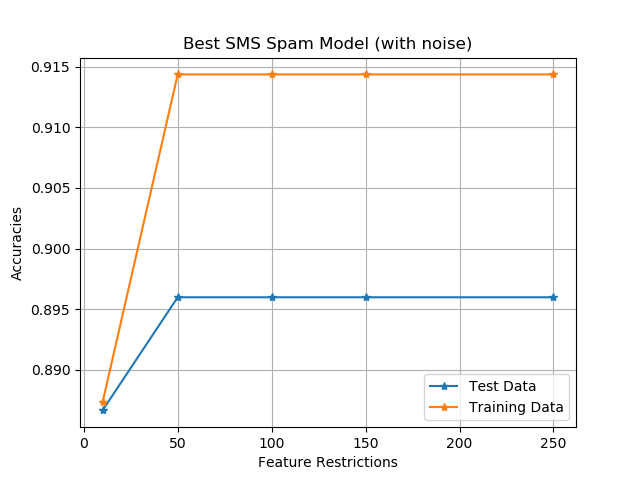
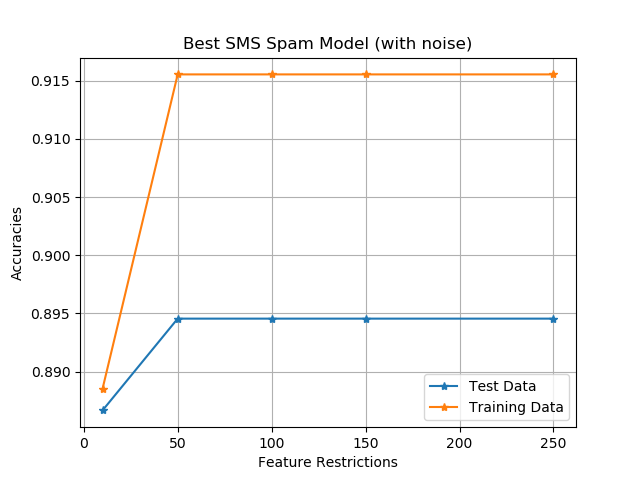
UPDATED: outputs for random forest and best model part1.

diff --git a/Assignment4/Code/model/GeoffDecisionTreeModel.py b/Assignment4/Code/model/GeoffDecisionTreeModel.py
@@ -1,0 +1,148 @@
+import collections
+import math
+
+
+def Entropy(y):
+    if (len(y) == 0):
+        return 0.0
+    distribution = collections.Counter()
+    for yValue in y:
+        distribution[yValue] += 1
+    numSamples = sum(distribution.values())
+    entropy = 0.0
+    for value in distribution:
+        p = distribution[value] / numSamples
+        entropy += -p * math.log2(p)
+    return entropy
+
+
+def SplitOnFeature(x, y, featureIndex):
+    # find the split point to use
+    min = None
+    max = None
+    for i in range(len(x)):
+        thisValue = x[i][featureIndex]
+        if min == None:
+            min = thisValue
+            max = thisValue
+        if thisValue < min:
+            min = thisValue
+        if thisValue > max:
+            max = thisValue
+    threshold = (min + max) / 2.0
+    # format is [<below thresh>, <equal or above thresh>]
+    # and each of those is [x, y] for the samples that meet the criteria
+    sampleSubsets = [[[], []], [[], []]]
+    for i in range(len(x)):
+        thisValue = x[i][featureIndex]
+        if thisValue < threshold:
+            subset = sampleSubsets[0]
+        else:
+            subset = sampleSubsets[1]
+
+        subset[0].append(x[i])
+        subset[1].append(y[i])
+    return (threshold, sampleSubsets)
+
+
+def FindBestSplit(x, y, featureSet=None):
+    if featureSet == None:  # no restriction on features
+        featureSet = set()
+        for i in range(len(x[0])):
+            featureSet.add(i)
+    totalEntropy = Entropy(y)
+    samples = len(y)
+    bestIndex = 0
+    bestGain = 0
+    bestSubsets = {}
+    bestThreshold = None
+    for i in range(len(x[0])):
+        if i in featureSet:  # if we can consider this feature, then do.
+            (threshold, subsets) = SplitOnFeature(x, y, i)
+            entropyAfterSplit = 0
+            for subset in subsets:
+                xVal = subset[0]
+                yVal = subset[1]
+                entropyAfterSplit += (len(xVal) / samples) * Entropy(yVal)
+            gain = totalEntropy - entropyAfterSplit
+            if gain > bestGain:
+                bestIndex = i
+                bestGain = gain
+                bestSubsets = subsets
+                bestThreshold = threshold
+    if bestGain == 0:
+        return None
+    return (bestIndex, bestThreshold, bestSubsets)
+
+
+class TreeNode(object):
+    def __init__(self):
+        self.labelDistribution = collections.Counter()
+        self.splitIndex = None
+        self.threshold = None
+        self.children = []
+        self.x = []
+        self.y = []
+
+    def AddData(self, x, y):
+        self.x += x
+        self.y += y
+        for newY in y:
+            self.labelDistribution[newY] += 1
+
+    def GrowTree(self, minToSplit, featureSet=None):
+        if len(self.x) < minToSplit:
+            return
+        splitAnswer = FindBestSplit(self.x, self.y, featureSet)
+        if splitAnswer == None:
+            return
+        (self.splitIndex, self.threshold, splitSubsets) = splitAnswer
+        for subset in splitSubsets:
+            childNode = TreeNode()
+            childNode.AddData(subset[0], subset[1])
+            self.children.append(childNode)
+            childNode.GrowTree(minToSplit, featureSet)
+
+    def predict(self, x):
+        if self.splitIndex != None:
+            if x[self.splitIndex] < self.threshold:
+                return self.children[0].predict(x)
+            else:
+                return self.children[1].predict(x)
+        return self.labelDistribution.most_common(1)[0][0]
+
+    def visualize(self, depth=1):
+        if self.splitIndex == None:
+            print(self.labelDistribution)
+        else:
+            print("Split on: %d" % (self.splitIndex))
+            # less than
+            for i in range(depth):
+                print(' ', end='', flush=True)
+            print("< %f -- " % self.threshold, end='', flush=True)
+            self.children[0].visualize(depth + 1)
+            # greater than or equal
+            for i in range(depth):
+                print(' ', end='', flush=True)
+            print(">= %f -- " % self.threshold, end='', flush=True)
+            self.children[1].visualize(depth + 1)
+
+
+class DecisionTreeModel(object):
+    """A learns simple decision trees."""
+
+    def __init__(self):
+        self.treeNode = TreeNode()
+
+    def fit(self, x, y, featureSet=None, minToSplit=100, logProgress=False):
+        self.treeNode.AddData(x, y)
+        self.treeNode.GrowTree(minToSplit, featureSet)
+
+    def predict(self, x):
+        y = []
+        for example in x:
+            y.append(self.treeNode.predict(example))
+        return y
+
+    def visualize(self):
+        self.treeNode.visualize()

diff --git a/Assignment4/Code/model/RandomForestsModel.py b/Assignment4/Code/model/RandomForestsModel.py
@@ -1,11 +1,11 @@
 from collections import Counter
 from joblib import Parallel, delayed
 import math
-import random
 import numpy as np
+from model.GeoffDecisionTreeModel import DecisionTreeModel
 
-from utils.bootstrap_sampling import get_bagged_samples, bootstraping_training_data
-from utils.feature_restriction import select_random_indices, restrict_features
+from utils.bootstrap_sampling import bootstraping_training_data
+from utils.feature_restriction import select_random_indices
 
 
 class RandomForestModel(object):
@@ -51,11 +51,31 @@ class RandomForestModel(object):
                 ys.append(list(y))
             self.selected_indices.append(selected_indices)
 
-        #self.trees = [build_tree(x, y, min_to_split) for x in xs]
         self.trees = Parallel(n_jobs=6)(delayed(build_tree)(x, y, min_to_split, si)
                                         for si, x, y in zip(self.selected_indices, xs, ys))
 
     def predict(self, xTest, threshold=None):
+
+        self.predictions = []
+        print("Predicting results with {} tree(s).".format(len(self.trees)))
+        # for selected_indices, tree in zip(self.selected_indices, self.trees):
+        for tree in self.trees:
+            self.predictions.append(tree.predict(xTest))
+
+        prediction_votes = []
+        for combines in zip(*self.predictions):
+            count_1s = combines.count(1)
+            #if (count_1s / len(combines)) >= 0.5:
+            #    prediction_votes.append(1)
+            #else:
+            #    prediction_votes.append(0)
+            voted = Counter(combines).most_common(1)[0][0]
+            # print("0s {} vs 1s {}".format(combines.count(0), combines.count(1)))
+            prediction_votes.append(voted)
+
+        return prediction_votes
+
+    def predict_jae(self, xTest, threshold=None):
 
         self.predictions = []
         print("Predicting results with {} tree(s).".format(len(self.trees)))
@@ -361,7 +381,14 @@ def split(node, min_to_stop=100, selected_indices=[]):
         return
 
 
-def build_tree(xTrains, yTrains, min_to_stop=100, selected_indices=[]):
+def build_tree(xTrains, yTrains, minToSplit, selected_indices):
+
+    dt = DecisionTreeModel()
+    dt.fit(xTrains, yTrains, selected_indices, minToSplit)
+    return dt
+
+
+def build_tree_jae(xTrains, yTrains, min_to_stop=100, selected_indices=[]):
 
     root = get_split(xTrains, yTrains, selected_indices)
     split(root, min_to_stop, selected_indices)

diff --git a/Assignment4/Code/model/BestSpamModel.py b/Assignment4/Code/model/BestSpamModel.py
@@ -41,11 +41,11 @@ class BestSpamModel(object):
         self.rf.fit(xTrains, yTrains, min_to_stop)
 
     def predict(self, xTests, threshold=None):
-        if not all([self.lg_pred, self.dt_pred, self.rf_pred]):
-            xTests_w_0 = [[1] + x for x in xTests]
-            self.lg_pred = self.lg.predict(xTests_w_0)
-            self.dt_pred = self.dt.predict(xTests)
-            self.rf_pred = self.rf.predict(xTests)
+        #if not all([self.lg_pred, self.dt_pred, self.rf_pred]):
+        xTests_w_0 = [[1] + x for x in xTests]
+        self.lg_pred = self.lg.predict(xTests_w_0)
+        self.dt_pred = self.dt.predict(xTests)
+        self.rf_pred = self.rf.predict(xTests)
 
         predictions = []
         for l, d, r in zip(self.lg_pred, self.dt_pred, self.rf_pred):

diff --git a/Assignment4/Report/prob1_random_forests.md b/Assignment4/Report/prob1_random_forests.md
@@ -8,17 +8,17 @@
 
 |          Trees          |        Accuracies       |
 |-------------------------|-------------------------|
-|           Full          |    0.8629842180774749   |
-|          Tree 0         |    0.8500717360114778   |
-|          Tree 1         |    0.8436154949784792   |
-|          Tree 2         |    0.8436154949784792   |
-|          Tree 3         |    0.8443328550932568   |
-|          Tree 4         |    0.8464849354375896   |
-|          Tree 5         |    0.8493543758967002   |
-|          Tree 6         |    0.8314203730272597   |
-|          Tree 7         |    0.8393113342898135   |
-|          Tree 8         |    0.8565279770444764   |
-|          Tree 9         |    0.8651362984218077   |
+|           Full          |    0.8622668579626973   |
+|          Tree 0         |    0.860832137733142    |
+|          Tree 1         |    0.8601147776183644   |
+|          Tree 2         |    0.8586800573888091   |
+|          Tree 3         |    0.8629842180774749   |
+|          Tree 4         |    0.8593974175035868   |
+|          Tree 5         |    0.8637015781922525   |
+|          Tree 6         |    0.8658536585365854   |
+|          Tree 7         |    0.8637015781922525   |
+|          Tree 8         |    0.8601147776183644   |
+|          Tree 9         |    0.8637015781922525   |
 
 Use Bagging(bootstrap): True
 Feature Restriction: 20
